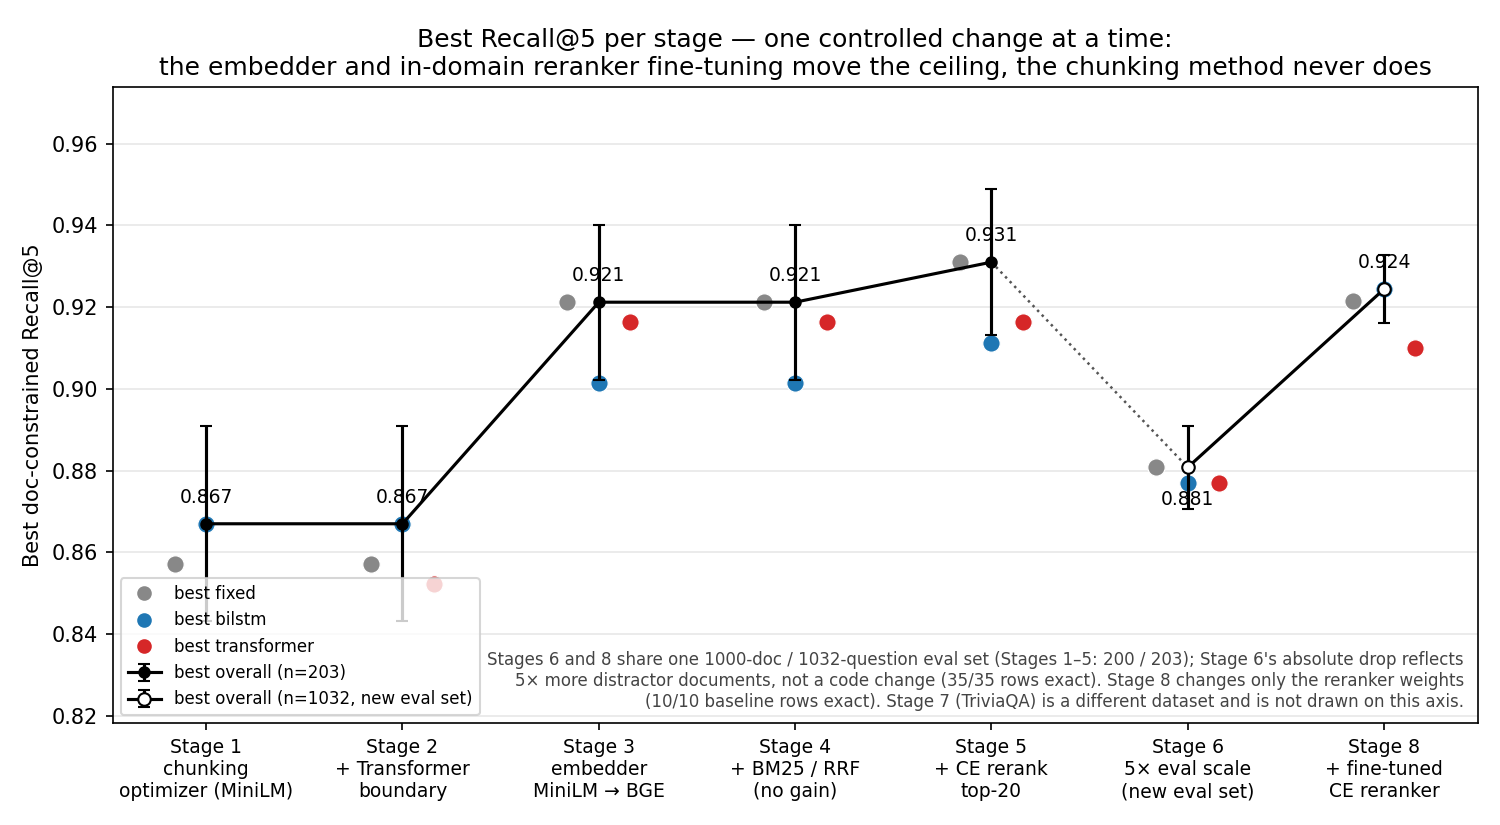
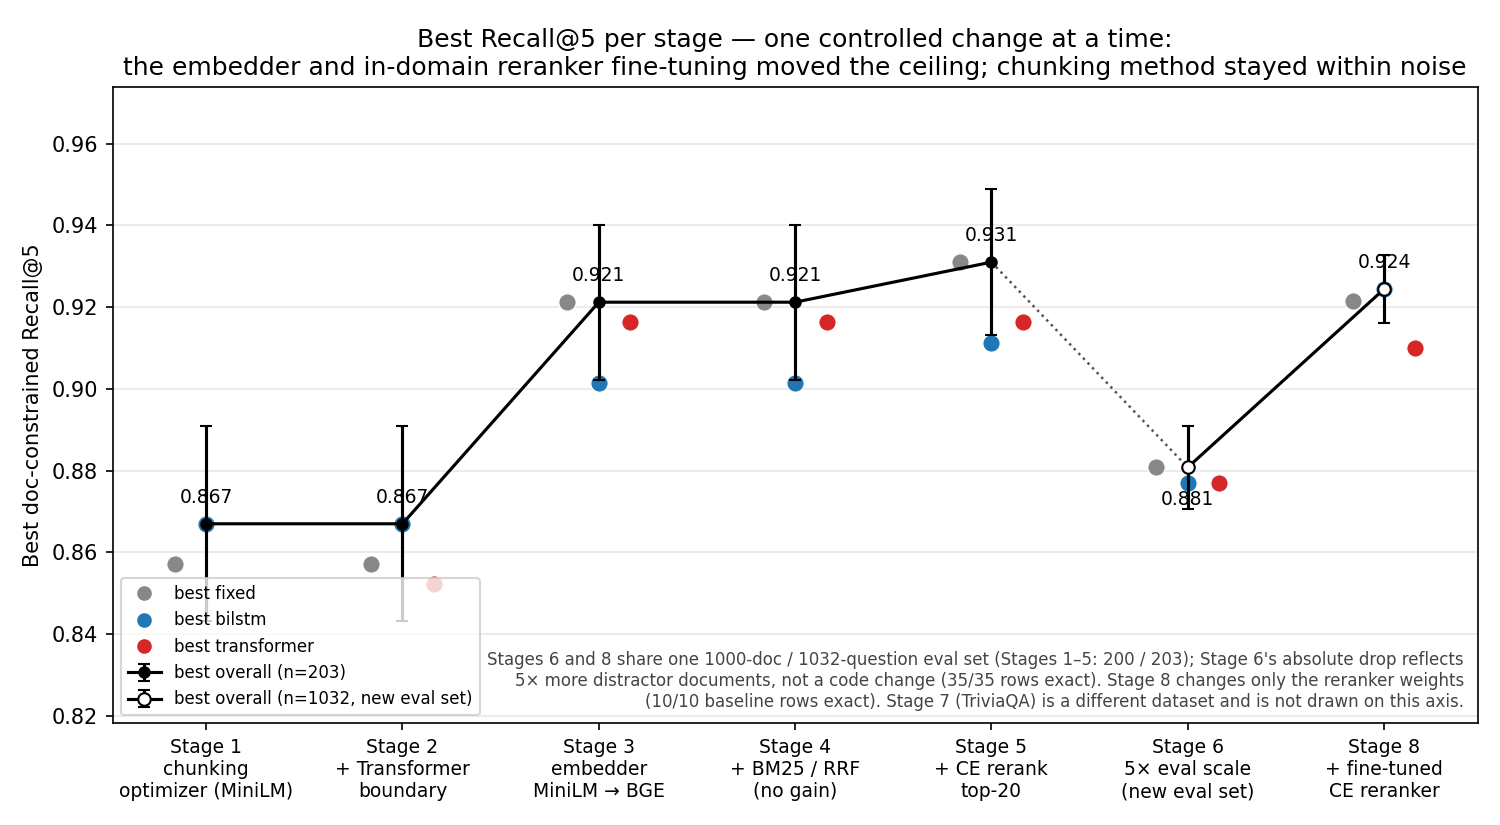
docs: align demo and write-up wording with the detection limit

Changed region(s): [[0.0613, 0.0606, 0.9813, 0.0909]]

diff --git a/scripts/18_eval_reranker_ft.py b/scripts/18_eval_reranker_ft.py
@@ -12,7 +12,7 @@ Two modes:
     --dev     go/no-go gate. Scores the held-out NQ-train dev bench (built by
               script 16) at fixed 15/0 (primary) and fixed 6/0 (context) and
               prints the verdict: dev ΔR@1 (ft - off-the-shelf) at fixed 15/0
-              >= STAGE8_GO_THRESHOLD -> GO; <= 0 -> NO-GO (honest negative
+              >= STAGE8_GO_THRESHOLD -> GO; <= 0 -> NO-GO (negative
               result); in between -> judgment call, at most one retry.
     (default) the final eval on the Stage 6 bench (nq/large_n1000 cache, 1032
               questions, the 5 STAGE6_RERANK_CONFIGS). Built-in check
@@ -321,7 +321,7 @@ def _write_stage6_check(stage6_rows, rows, path) -> bool:
               "different chunk count — chunking is NOT identical")
     if ok and d == 0.0:
         print("[stage8] check OK: bge + rerank20 rows reproduce the archived "
-              "Stage 6 rows exactly — the rerank20_ft rows are trustworthy.")
+              "Stage 6 rows exactly — the rerank20_ft rows are comparable.")
     elif ok:
         print(f"[stage8] check: max |recall delta| vs Stage 6 = {d:.4f} "
               "(within one question — inspect before trusting).")
@@ -603,7 +603,7 @@ def main() -> None:
             print("[stage8] -> run the final eval: "
                   "python scripts/18_eval_reranker_ft.py")
         elif gate[0] == "NO-GO":
-            print("[stage8] -> stop-loss: archive this as the honest negative "
+            print("[stage8] -> stop-loss: archive this as the negative "
                   "result (no final run).")
         else:
             print("[stage8] -> gray zone: at most ONE retry (more data / "

diff --git a/scripts/19_demo.py b/scripts/19_demo.py
@@ -245,10 +245,10 @@ def build_app(docs, questions, indices, scorers):
             "Two chunking strategies side by side on the Stage 6 bench "
             f"({len(docs)} Wikipedia docs / {len(questions)} NQ questions), "
             "three ranking arms sharing one BGE top-20 pool. Project "
-            "findings: chunk **size** dominates recall, chunking methods tie "
-            "— and the Stage 8 **fine-tuned** reranker is the only "
-            "intervention that lifts R@1 at the size-15 sweet spot "
-            "(+0.107).")
+            "findings: chunk **size** dominates recall; differences between "
+            "chunking methods stayed below the study's detection limit "
+            "(equivalence was not established). The Stage 8 **fine-tuned** "
+            "reranker improved in-domain R@1 at size 15 by 0.107.")
         with gr.Row():
             bench = gr.Dropdown(bench_labels, label="Bench question "
                                 "(NQ validation split)", value=None, scale=3)

diff --git a/models/bilstm.py b/models/bilstm.py
@@ -7,7 +7,7 @@ Given the sentence embeddings of ONE document ``E = [e_1, ..., e_n]`` with
 
 with the probability that a semantic topic change happens there.
 
-Architecture (matches the project spec)::
+Architecture::
 
     E (n, d)
       -> BiLSTM(hidden=H)            -> H_seq (n, 2H)
@@ -15,8 +15,8 @@ Architecture (matches the project spec)::
       -> Linear(4H -> 1)            -> logit_i
       (sigmoid is applied at inference / inside the loss for stability)
 
-The module is intentionally single-document (no padding): the spec trains
-with one article per step, which sidesteps variable-length padding entirely.
+The module is intentionally single-document (no padding): training uses one
+article per step, which sidesteps variable-length padding entirely.
 """
 
 from __future__ import annotations

diff --git a/rag_chunk/sweep.py b/rag_chunk/sweep.py
@@ -2,8 +2,7 @@
 
 Sweeps fixed-size and learned **target-size** chunking across chunk sizes and
 overlap settings, scores each on Natural Questions doc-constrained Recall@k, and
-exports the artifacts that turn this project from a single comparison into a real
-optimizer:
+exports:
 
     <results>/sweep_results.csv          one row per (method, config)
     <results>/best_config.json           the validation-best configuration
@@ -54,7 +53,7 @@ def _grids(quick: bool) -> tuple[list[int], list[int], list[int]]:
 
 
 def _semantic_window(target: int) -> tuple[int, int]:
-    """Learned [min, max] window derived from a target size (per the spec)."""
+    """Learned [min, max] window derived from a target size."""
     return max(2, target - 4), target + 4
 
 

diff --git a/scripts/14_evolution_plot.py b/scripts/14_evolution_plot.py
@@ -162,8 +162,8 @@ def plot(stages: list[dict], path: pathlib.Path) -> None:
                   fontsize=9)
     ax.set_ylabel("Best doc-constrained Recall@5")
     ax.set_title("Best Recall@5 per stage — one controlled change at a time:\n"
-                 "the embedder and in-domain reranker fine-tuning move the "
-                 "ceiling, the chunking method never does",
+                 "the embedder and in-domain reranker fine-tuning moved the "
+                 "ceiling; chunking method stayed within noise",
                  fontsize=12)
     ax.grid(True, axis="y", alpha=0.3)
     lo = min(m - s for m, s in zip(best_vals, ses)) - 0.025

diff --git a/deploy/smoke_space.py b/deploy/smoke_space.py
@@ -1,9 +1,9 @@
-"""Local CPU smoke test for the Space app — run this BEFORE every push.
+"""Local CPU smoke test for the Space app.
 
 Assembles the exact payload `create_space.py` would deploy, points it at local
 assets instead of the Hub, and exercises the whole boot path: config resolution
 from RAG_DATA_ROOT, prebuilt-index loading, model placement, both ranking arms,
-and HTML rendering. Runs on CPU (slow but correct); `@spaces.GPU` is a no-op off
+and HTML rendering. Runs on CPU; `@spaces.GPU` is a no-op off
 Space.
 
 It is the cheapest check that the shipped indices really are the study's: the

diff --git a/rag_chunk/smoke.py b/rag_chunk/smoke.py
@@ -30,8 +30,8 @@ def run_smoke() -> dict:
         print("\n=== Phase 4+5 (smoke): build indices + evaluate ===")
         model = training.load_model()
         results = evaluation.evaluate_all(model, rebuild=True)
-        print("\n[smoke] OK — the full pipeline runs end to end. "
-              "Numbers here are meaningless (tiny data); now run the real phases.")
+        print("\n[smoke] OK — phases 1-5 ran on tiny data. "
+              "These numbers are not meaningful.")
         return results
     finally:
         C.apply(**{k: saved[k] for k in _SAVED_KEYS if k != "DATA_ROOT"})

diff --git a/scripts/21_reranker_transfer.py b/scripts/21_reranker_transfer.py
@@ -13,7 +13,7 @@ dataset changes, so a difference in the ft-ots delta is a transfer effect, not a
 protocol difference. The in-domain Stage 8 deltas are read from the archive and
 printed next to the cross-dataset ones.
 
-GPU + Drive assets required (run on Colab):
+Required assets (under the data root):
     - fine-tuned reranker at ``models/bge_reranker_ft/final`` (Stage 8),
     - the TriviaQA bench cache (Stage 7 built it for the same n-questions),
     - the archived ``stage8/final`` for the in-domain comparison.

diff --git a/scripts/22_rerank_depth.py b/scripts/22_rerank_depth.py
@@ -275,7 +275,7 @@ def _write_stage8_check(stage8_rows, rows, depths, path) -> bool | None:
         print(f"[stage9] WARN: {unmatched} row(s) had no Stage 8 counterpart")
     if ok and worst == 0.0:
         print("[stage9] check OK: depth-20 arms reproduce stage8/final exactly "
-              "— the depth-50 rows are trustworthy.")
+              "— the depth-50 rows are comparable.")
     elif ok:
         print(f"[stage9] check: max |delta| vs Stage 8 = {worst:.4f} (within "
               "one question).")

diff --git a/config.py b/config.py
@@ -142,7 +142,7 @@ LEARNING_RATE = 1e-3
 MAX_EPOCHS = 20
 EARLY_STOP_PATIENCE = 3              # epochs without val-loss improvement
 # pos_weight for the weighted BCE.  None -> computed from the training split
-# (= #neg / #pos, ~15 per the spec).  Set a float to override.
+# (= #neg / #pos, ~15 on this data).  Set a float to override.
 POS_WEIGHT = None
 # -- Learned chunking policy ------------------------------------------------- #
 # "threshold": cut wherever boundary prob >= BOUNDARY_THRESHOLD (min/max clamp).

diff --git a/rag_chunk/wiki_data.py b/rag_chunk/wiki_data.py
@@ -17,7 +17,7 @@ Boundary label convention
 ``sentences[i+1]`` (so ``len(labels) == len(sentences) - 1``).  It is ``1``
 iff ``sentences[i+1]`` is the first sentence of a new section.
 
-Everything is cached to Drive and resumable: raw wikitext lives in
+Everything is cached under the data root and resumable: raw wikitext lives in
 ``wiki_raw/<slug>.txt`` and is skipped if already present.
 """
 

diff --git a/rag_chunk/training.py b/rag_chunk/training.py
@@ -3,7 +3,7 @@
 One article per optimisation step (variable length, no padding).  The loss is
 a weighted BCE (``pos_weight = #neg/#pos`` from the training split, ~15) to
 counter the ~6% positive-boundary rate.  Early stopping watches validation loss
-and the best weights are saved to Drive.
+and the best weights are saved under ``MODELS_DIR``.
 """
 
 from __future__ import annotations
